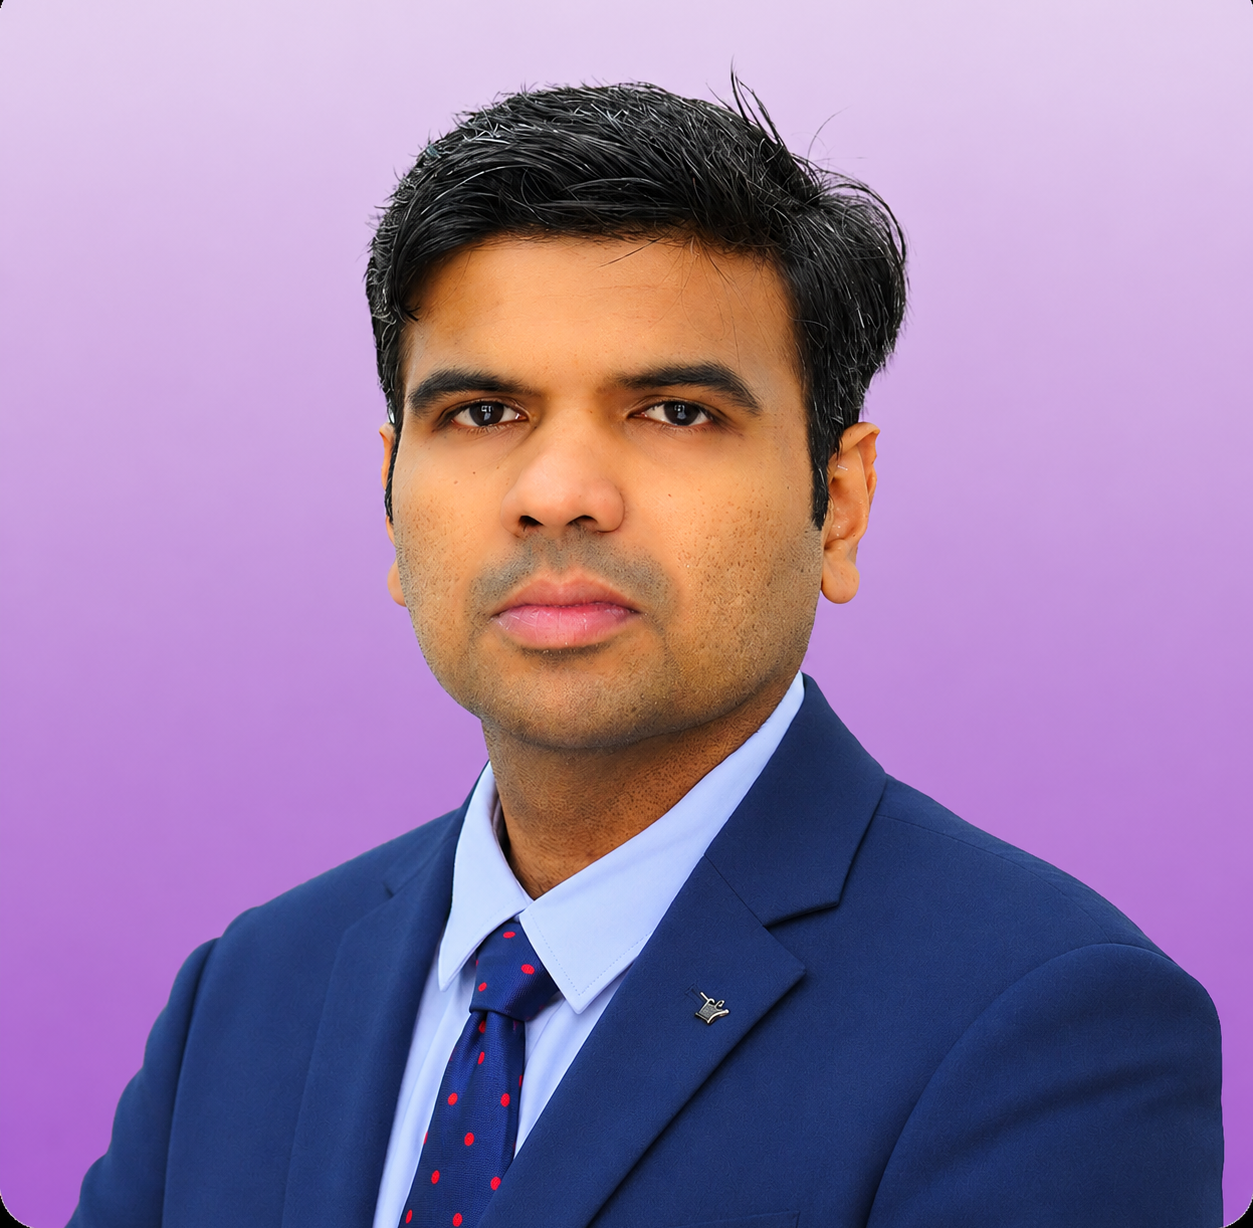
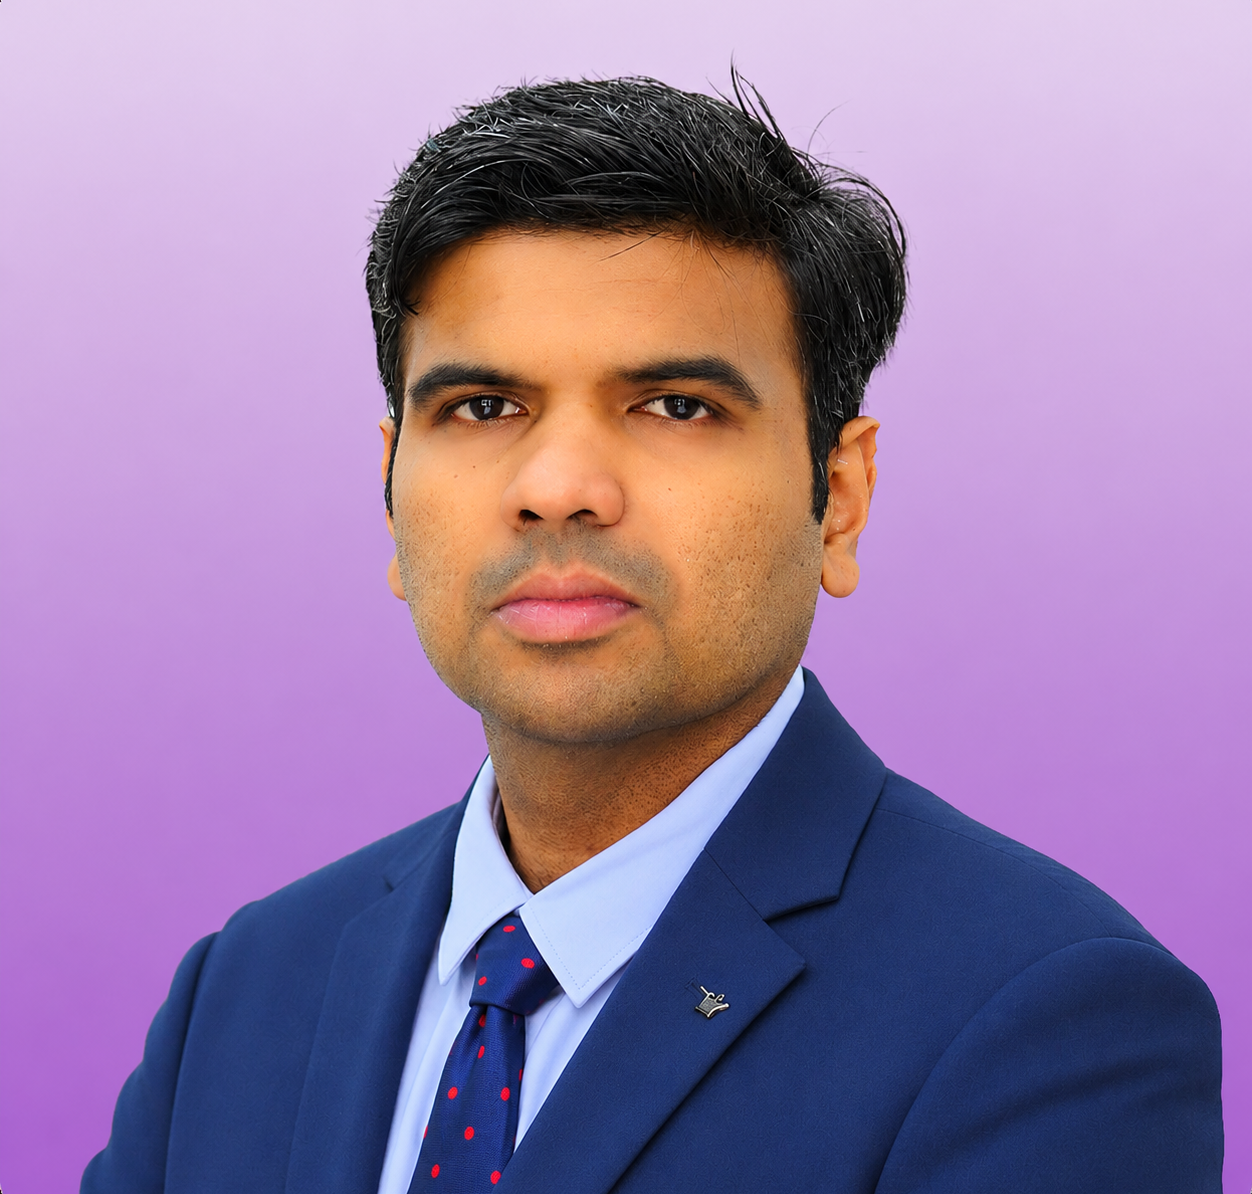
web fix 04/06

diff --git a/frontend/src/data/doctorData.js b/frontend/src/data/doctorData.js
@@ -938,7 +938,7 @@ const doctorData = {
 
   rating: "4.8",
   reviews: "80+ Ratings",
- phone: "+91 9326911195",
+ phone: "",
 
   centres: ["ICTC Thane"],
 